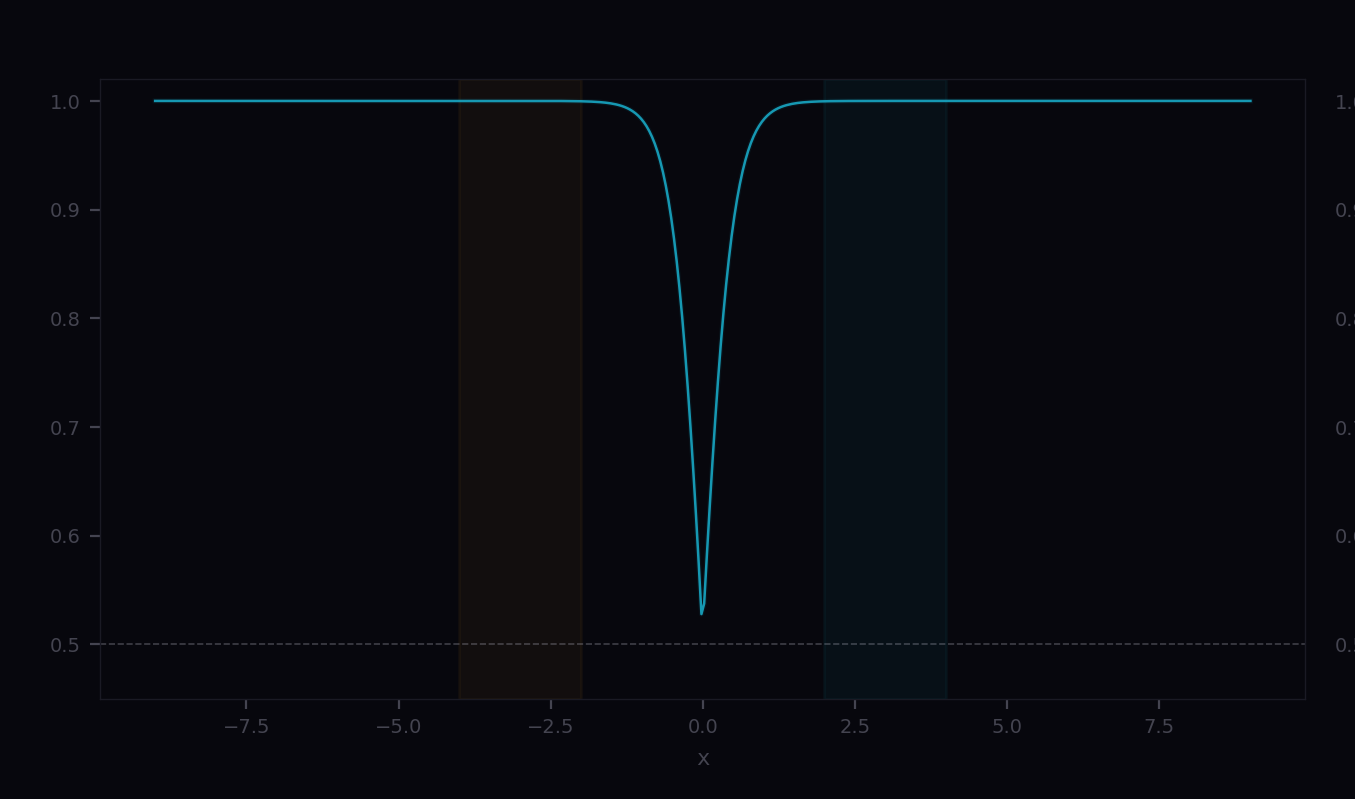
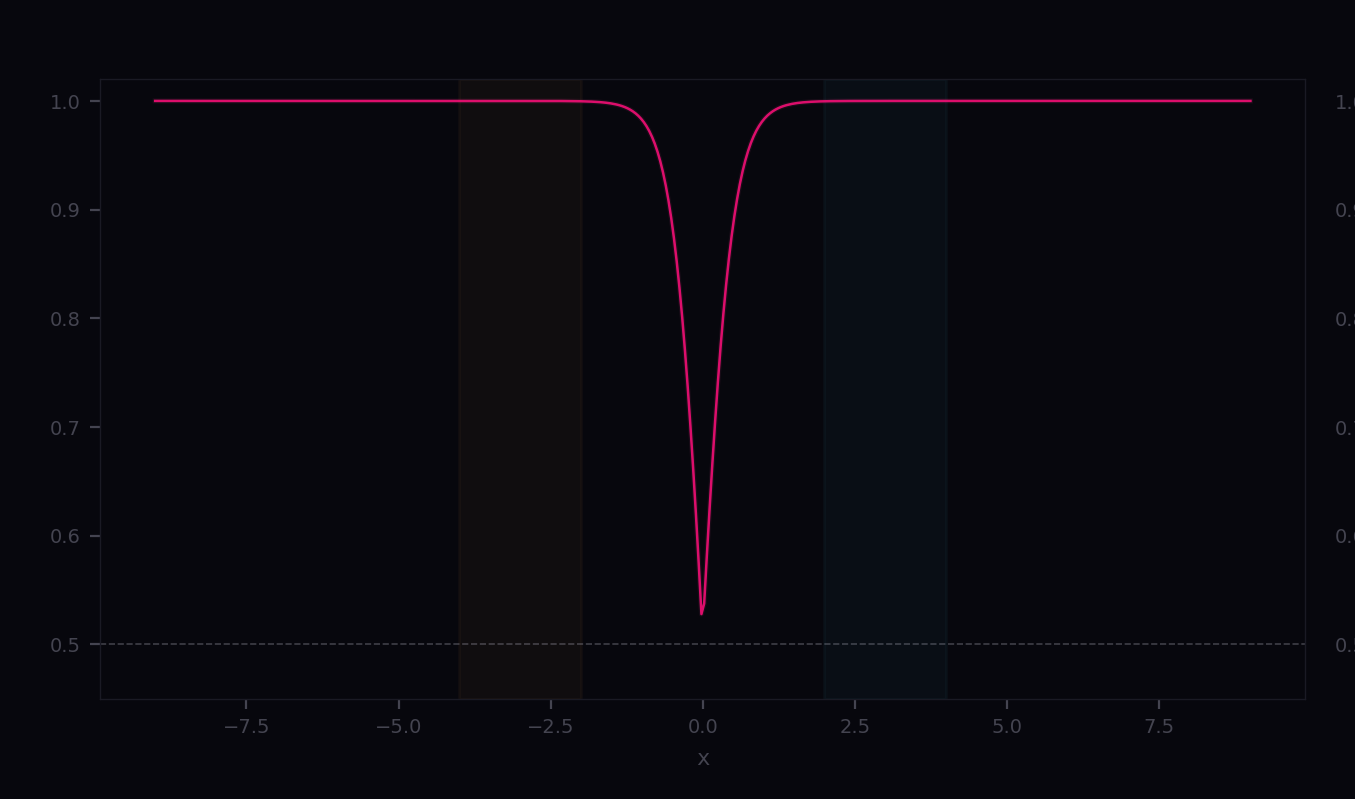
pink probe lines, softer dots, rename to LastLayerLaplace, 70% gallery sizing

Changed region(s): [[0.5579, 0.1202, 0.9299, 0.1502], [0.124, 0.1202, 0.4649, 0.1502], [0.4959, 0.5407, 0.5269, 0.7509]]

diff --git a/neural_geometry/bayesian.py b/neural_geometry/bayesian.py
@@ -97,7 +97,7 @@ def get_features(model, x):
         x = layer.forward(x)
     return x
 
-class DiagonalLastLayerLaplace:
+class LastLayerLaplace:
     """Diagonal Gaussian over the final linear layer.
     Precision per weight: 1/sigma_prior^2 + sum_i kappa_i * phi_ij^2
     where kappa_i = p_i(1 - p_i) is the logistic curvature."""
@@ -137,7 +137,7 @@ def build(prior_std=PRIOR_STD):
     X, y = make_blobs()
     net  = make_net()
     train(net, X, y)
-    llla = DiagonalLastLayerLaplace(net, X, prior_std=prior_std)
+    llla = LastLayerLaplace(net, X, prior_std=prior_std)
     return net, llla, X, y
 
 def _make_grid(X, margin=5.0, h=0.05):
@@ -174,8 +174,8 @@ PINK_GLOW  = "#ff4fa3"
 PINK_NEON  = "#ff0f7b"
 PINK_HOT   = "#ff7cc4"
 
-CLASS0     = "#d18a1f"
-CLASS1     = "#18a7c4"
+CLASS0     = "#c88040"
+CLASS1     = "#40a0b8"
 
 _CONF_CMAP = LinearSegmentedColormap.from_list("conf", [
     (0.00, "#ff5eb0"),
@@ -249,8 +249,8 @@ def plot_1d_probe(model, llla, x_range=(-9.0, 9.0), n_points=400, n_samples=256)
     fig, axes = plt.subplots(1, 2, figsize=(13, 4))
     fig.patch.set_facecolor(BG)
 
-    axes[0].plot(xs, map_conf, color=CLASS1, linewidth=1.8, alpha=0.08)
-    axes[0].plot(xs, map_conf, color=CLASS1, linewidth=0.9, alpha=0.9)
+    axes[0].plot(xs, map_conf, color=PINK_GLOW, linewidth=1.8, alpha=0.08)
+    axes[0].plot(xs, map_conf, color=PINK_NEON, linewidth=0.9, alpha=0.85)
     axes[0].axhline(0.5, color=FG, linewidth=0.6, linestyle="--", alpha=0.3)
     axes[0].set_ylim(0.45, 1.02)
     _clean_ax(axes[0], "MAP")
@@ -259,17 +259,17 @@ def plot_1d_probe(model, llla, x_range=(-9.0, 9.0), n_points=400, n_samples=256)
     axes[1].fill_between(xs,
                          np.clip(bay_conf - 3 * bay_std, 0.5, 1.0),
                          np.clip(bay_conf + 3 * bay_std, 0.5, 1.0),
-                         color=CLASS1, alpha=0.12)
-    axes[1].plot(xs, bay_conf, color=CLASS1, linewidth=1.8, alpha=0.08)
-    axes[1].plot(xs, bay_conf, color=CLASS1, linewidth=0.9, alpha=0.9)
+                         color=PINK_GLOW, alpha=0.10)
+    axes[1].plot(xs, bay_conf, color=PINK_GLOW, linewidth=1.8, alpha=0.08)
+    axes[1].plot(xs, bay_conf, color=PINK_NEON, linewidth=0.9, alpha=0.85)
     axes[1].axhline(0.5, color=FG, linewidth=0.6, linestyle="--", alpha=0.3)
     axes[1].set_ylim(0.45, 1.02)
     _clean_ax(axes[1], "LLLA")
     axes[1].set_xlabel("x", color="#444450", fontsize=8, fontfamily="monospace")
 
     for ax in axes:
-        ax.axvspan(-4.0, -2.0, color=CLASS0, alpha=0.06)
-        ax.axvspan( 2.0,  4.0, color=CLASS1, alpha=0.06)
+        ax.axvspan(-4.0, -2.0, color=CLASS0, alpha=0.05)
+        ax.axvspan( 2.0,  4.0, color=CLASS1, alpha=0.05)
 
     plt.tight_layout()
     return fig
@@ -284,7 +284,7 @@ def plot_prior_sweep(model, X, y, prior_stds=(0.3, 1.0, 3.0, 10.0)):
     fig.patch.set_facecolor(BG)
 
     for ax, s in zip(axes, prior_stds):
-        llla  = DiagonalLastLayerLaplace(model, X, prior_std=s)
+        llla  = LastLayerLaplace(model, X, prior_std=s)
         p_bay = llla.sample_probs(phi, n_samples=128).mean(axis=0)
         conf  = np.maximum(p_bay, 1.0 - p_bay).reshape(xx.shape)
         pred  = (p_bay > 0.5).reshape(xx.shape).astype(float)

diff --git a/README.md b/README.md
@@ -86,14 +86,14 @@ Along a fixed ray, the logit difference changes piecewise linearly, with kinks w
 
 <kbd>bayesian</kbd> &nbsp; [neural_geometry/bayesian.py](neural_geometry/bayesian.py)
 
-Binary ReLU classifier with a last-layer Laplace approximation, inspired by [Kristiadi et al. 2020](https://arxiv.org/abs/2002.10118). I wanted to understand what changes when only the last layer is treated probabilistically. The point-estimate model stays overconfident far from the training data, while the Bayesian last layer pulls predictions back toward 0.5 in sparse regions.
+Binary ReLU classifier with a last-layer Laplace approximation, inspired by [Kristiadi et al. 2020](https://arxiv.org/abs/2002.10118). I wanted to understand what changes when only the last layer is treated probabilistically. The point-estimate model stays overconfident far from the training data, while the last-layer Laplace approximation pulls predictions back toward 0.5 in sparse regions.
 
 <p align="center"><em>MAP vs last-layer Laplace confidence</em></p>
 
 <table>
   <tr>
-    <td align="center"><img src="assets/bayes_map.png" width="100%"></td>
-    <td align="center"><img src="assets/bayes_llla.png" width="100%"></td>
+    <td align="center" width="35%"><img src="assets/bayes_map.png" width="100%"></td>
+    <td align="center" width="35%"><img src="assets/bayes_llla.png" width="100%"></td>
   </tr>
   <tr>
     <td align="center">MAP</td>
@@ -105,8 +105,8 @@ Binary ReLU classifier with a last-layer Laplace approximation, inspired by [Kri
 
 <table>
   <tr>
-    <td align="center"><img src="assets/bayes_probe_map.png" width="100%"></td>
-    <td align="center"><img src="assets/bayes_probe_llla.png" width="100%"></td>
+    <td align="center" width="35%"><img src="assets/bayes_probe_map.png" width="100%"></td>
+    <td align="center" width="35%"><img src="assets/bayes_probe_llla.png" width="100%"></td>
   </tr>
   <tr>
     <td align="center">MAP</td>
@@ -114,7 +114,7 @@ Binary ReLU classifier with a last-layer Laplace approximation, inspired by [Kri
   </tr>
 </table>
 
-MAP quickly returns to near-1 confidence away from the data. The last-layer Laplace approximation relaxes toward 0.5 and shows wider predictive spread in sparse regions.
+MAP quickly returns to near-1 confidence away from the data. The last-layer Laplace approximation relaxes toward 0.5 and shows wider predictive spread as you move into regions with little or no training data.
 
 <kbd>relu-gl</kbd> &nbsp; [neural_geometry/gl1_geometry.py](neural_geometry/gl1_geometry.py)
 
